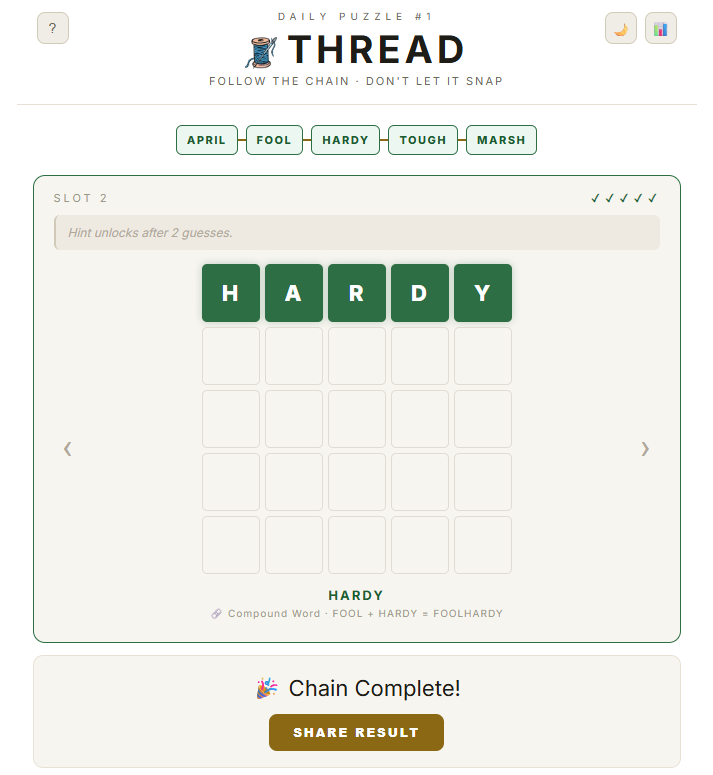
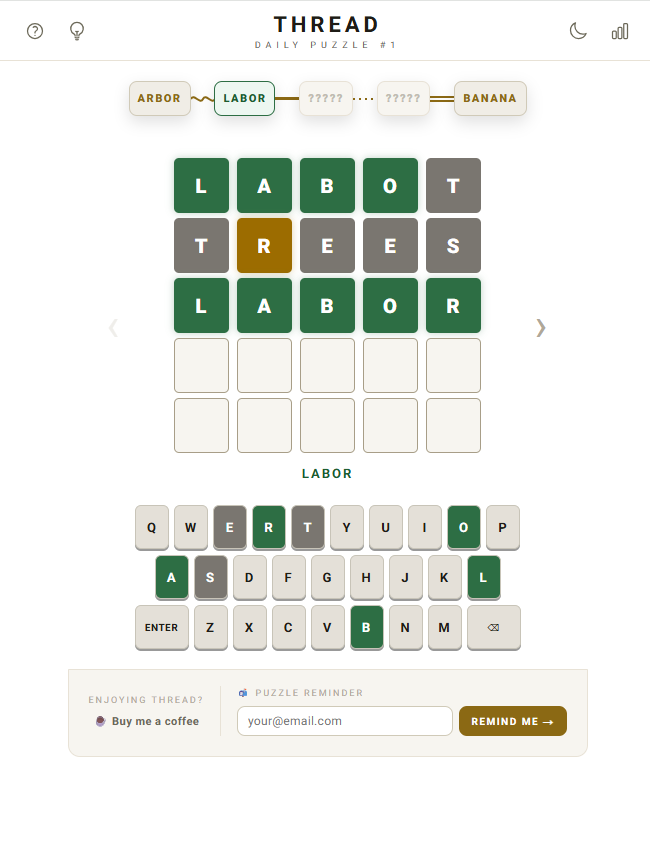
updated projects

diff --git a/Components/projects.jsx b/Components/projects.jsx
@@ -48,32 +48,34 @@ export default function Projects() {
             <div className="hidden"></div>
           )}
         </div>
-        <div className="w-fit mx-auto my-3 sm:my-8 group outline-none focus:scale-105 hover:scale-105 active:scale-105 cursor-pointer borderBlack/10 transition">
-          <button
-            className=""
-            onClick={() => setShowMoreProjects(!showMoreProjects)}
-          >
-            {showMoreProjects ? (
-              <div className=" text-sm mb-8">
-                <div className="w-full">
-                  <FaChevronUp
-                    size={30}
-                    className="text-gray-900/50 mx-auto group-hover:-translate-y-1 transition opacity-70 dark:text-white/70"
-                  />
+        {minorProjectsData.length > 0 && (
+          <div className="w-fit mx-auto my-3 sm:my-8 group outline-none focus:scale-105 hover:scale-105 active:scale-105 cursor-pointer borderBlack/10 transition">
+            <button
+              className=""
+              onClick={() => setShowMoreProjects(!showMoreProjects)}
+            >
+              {showMoreProjects ? (
+                <div className=" text-sm mb-8">
+                  <div className="w-full">
+                    <FaChevronUp
+                      size={30}
+                      className="text-gray-900/50 mx-auto group-hover:-translate-y-1 transition opacity-70 dark:text-white/70"
+                    />
+                  </div>
                 </div>
-              </div>
-            ) : (
-              <div className="text-sm mb-8">
-                <div className="w-full">
-                  <FaChevronDown
-                    size={30}
-                    className="text-gray-900/50 mx-auto group-hover:translate-y-1 transition opacity-70 dark:text-white/70"
-                  />
+              ) : (
+                <div className="text-sm mb-8">
+                  <div className="w-full">
+                    <FaChevronDown
+                      size={30}
+                      className="text-gray-900/50 mx-auto group-hover:translate-y-1 transition opacity-70 dark:text-white/70"
+                    />
+                  </div>
                 </div>
-              </div>
-            )}
-          </button>
-        </div>
+              )}
+            </button>
+          </div>
+        )}
       </section>
     </div>
   );

diff --git a/app/lib/data.js b/app/lib/data.js
@@ -139,6 +139,15 @@ export const projectsData = [
     imageUrl: threadImg,
     url: "https://www.thread-game.io",
   },
+  {
+    title: "Portfolio",
+    description:
+        "Personal portfolio site to showcase my experience and skills as a Software Developer.",
+    loginInfo: [],
+    tags: ["React", "Next.js", "Tailwind CSS", "clsx", "Framer Motion"],
+    imageUrl: portfolioImg,
+    url: "https://dana-shorts.dev",
+  },
 ];
 
 export const minorProjectsData = [
@@ -157,15 +166,15 @@ export const minorProjectsData = [
   //   imageUrl: NymsImg,
   //   url: "https://github.com/csudhtoro/Nyms",
   // },
-  {
-    title: "Portfolio",
-    description:
-      "Personal portfolio site to showcase my experience and skills as a Software Developer.",
-    loginInfo: [],
-    tags: ["React", "Next.js", "Tailwind CSS", "clsx", "Framer Motion"],
-    imageUrl: portfolioImg,
-    url: "https://dana-shorts.dev",
-  },
+  // {
+  //   title: "Portfolio",
+  //   description:
+  //     "Personal portfolio site to showcase my experience and skills as a Software Developer.",
+  //   loginInfo: [],
+  //   tags: ["React", "Next.js", "Tailwind CSS", "clsx", "Framer Motion"],
+  //   imageUrl: portfolioImg,
+  //   url: "https://dana-shorts.dev",
+  // },
   // {
   //   title: "Ration",
   //   description:
